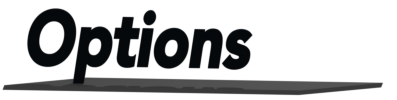
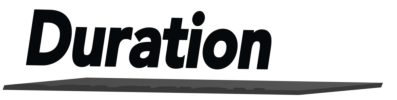
clean up MainMenu

Changed region(s): [[0.0605, 0.06, 0.6952, 0.87]]

diff --git a/lib/menu.js b/lib/menu.js
@@ -74,7 +74,7 @@ class Menu {
 }
 export class MainMenu extends Menu {
     constructor() {
-        super(["NewGame", "Enemies", "Duration", "Options"]);
+        super(["NewGame", "Enemies", "Duration"]);
         this.dudes_img = makeImage("img/p2.png")
     }
     NewGame_ENTER(dt) {
@@ -93,13 +93,6 @@ export class MainMenu extends Menu {
     Duration_LEFT() {
         if (app.config.DURATION > 1) app.config.DURATION -= 1;
     }
-    Options_RIGHT() {
-        app.config.zoom_margin += 50
-    }
-    Options_LEFT() {
-        app.config.zoom_margin -= 50
-        if (app.config.zoom_margin < 0) app.config.zoom_margin = 0;
-    }
     update(dt, delta) {
         super.update(dt, delta);
         if (app.keys.is_new_press("ESC")) {
@@ -109,7 +102,7 @@ export class MainMenu extends Menu {
     }
     draw(dt, delta) {
         // add a semi transparent background
-        app.display.context.fillStyle = "rgba(100, 120, 150, 0.4)";
+        app.display.context.fillStyle = "rgba(100, 120, 150, 0.8)";
         app.display.context.fillRect(0, 0, app.display.width, app.display.height);
         app.display.context.fillStyle = "white";
         super.draw(dt, delta);
